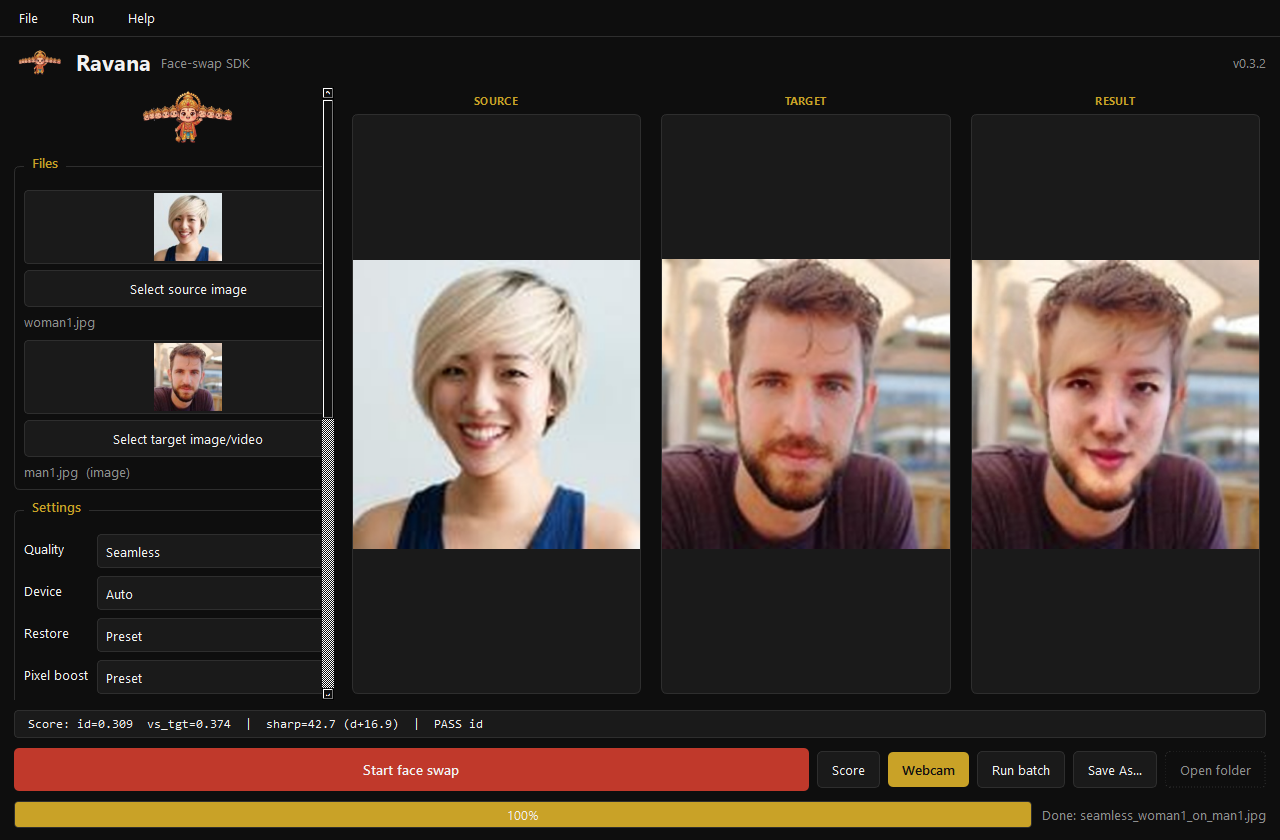
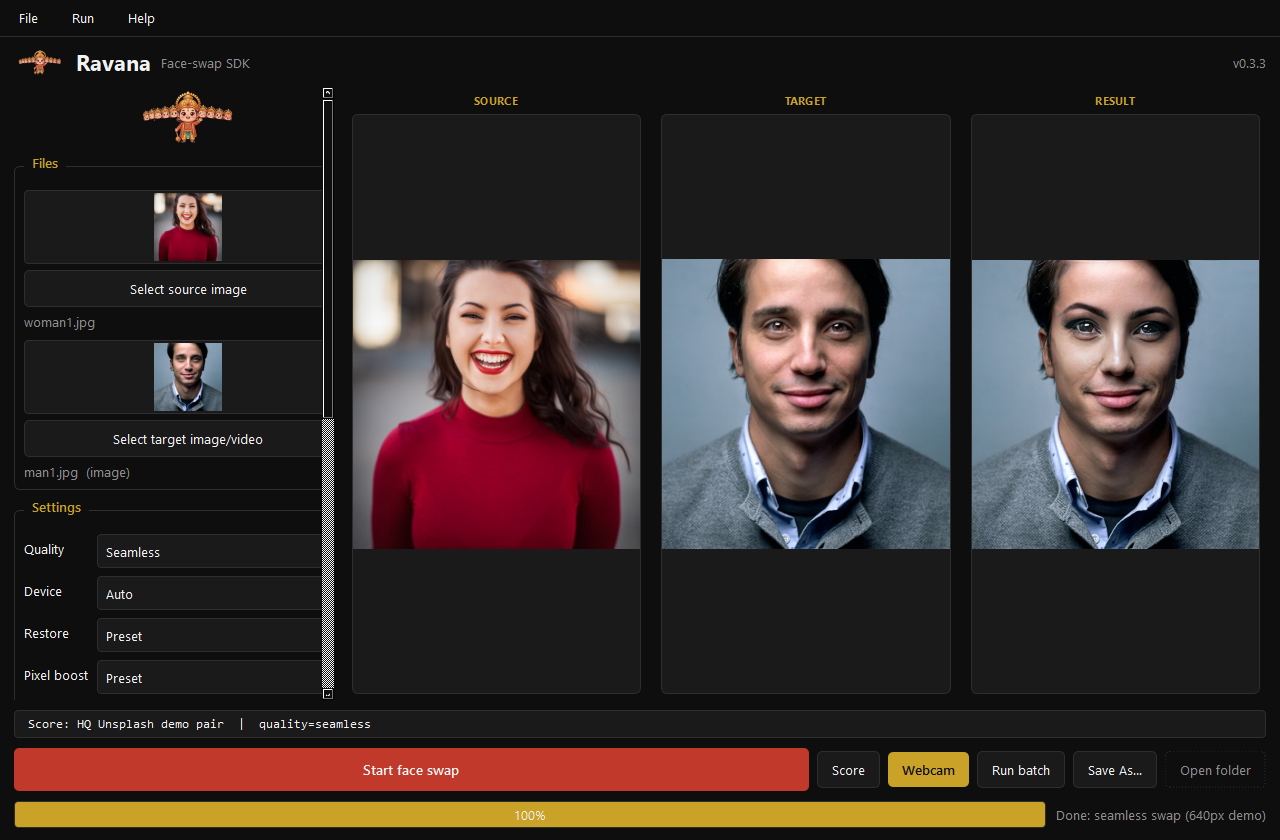
docs: replace low-res gallery with Unsplash HQ seamless demos

diff --git a/docs/assets/comparisons/README.md b/docs/assets/comparisons/README.md
@@ -1,4 +1,4 @@
-# Comparison showcase assets
+# Comparison showcase assets
 
-Illustrative sample portraits (public stock / OpenCV-style faces) used in the README.
-Regenerate locally with the demos CLI; do not commit bulk `data/` experiment dumps.
+Demo portraits from Unsplash (free license) used in the README.
+Swap outputs regenerated locally with `quality=seamless`.
